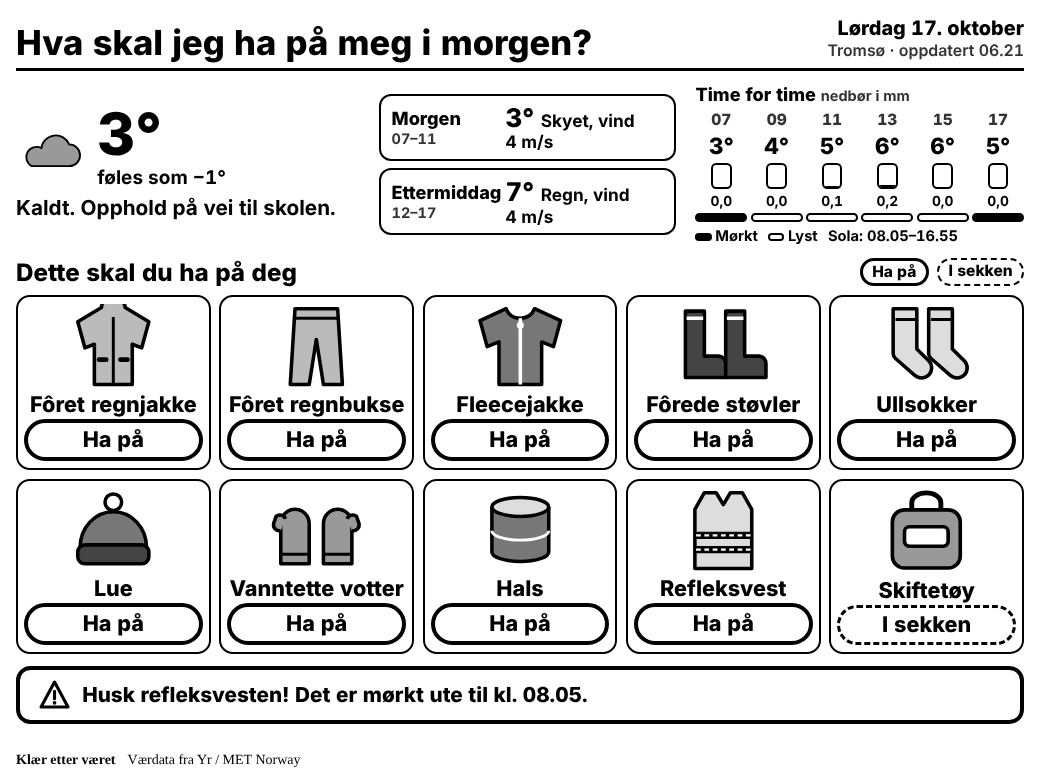
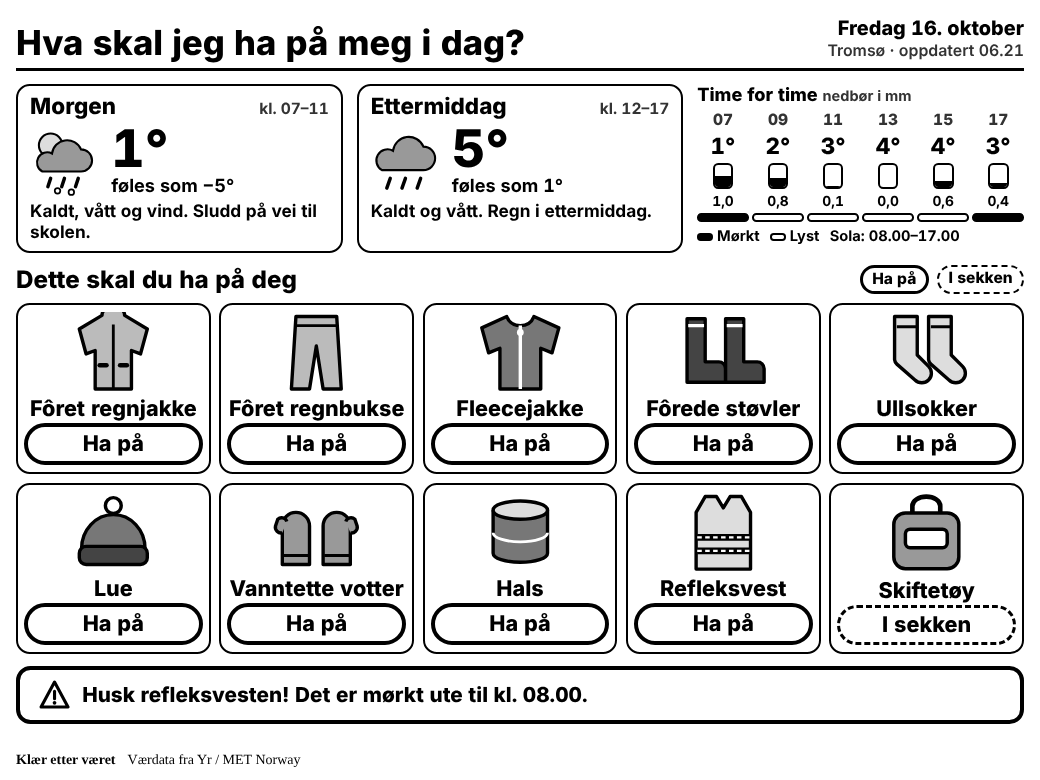
Merge today's weather into the morning and afternoon cards
The separate left element repeated the morning's temperature. Each part
of the day now gets its own card with a weather picture, temperature,
"føles som" and a short sentence.

Claude-Session: https://claude.ai/code/session_01MfSNdDLEZkeMd6mijxF2wM

Changed region(s): [[0.0, 0.0308, 0.9846, 0.7385], [0.9538, 0.2154, 0.9846, 0.2769], [0.8, 0.0308, 0.8308, 0.0615]]

diff --git a/src/transform.js b/src/transform.js
@@ -359,8 +359,16 @@ function build(input, now) {
       text: describe(m, 'på vei til skolen')
     },
     periods: [
-      { label: PERIODS.morning.label, range: PERIODS.morning.range, temp: fmtTemp(m.tMin), text: `${KIND_TEXT[m.kind]}, vind ${fmtWind(m.wind)}`, icon: m.kind },
-      { label: PERIODS.afternoon.label, range: PERIODS.afternoon.range, temp: fmtTemp(a.tMax), text: `${KIND_TEXT[a.kind]}, vind ${fmtWind(a.wind)}`, icon: a.kind }
+      {
+        label: PERIODS.morning.label, range: PERIODS.morning.range, icon: m.kind,
+        temp: fmtTemp(m.tMin), feels: `føles som ${fmtTemp(m.feels)}`, wind: `Vind ${fmtWind(m.wind)}`,
+        text: `${KIND_TEXT[m.kind]}, vind ${fmtWind(m.wind)}`, say: describe(m, 'på vei til skolen')
+      },
+      {
+        label: PERIODS.afternoon.label, range: PERIODS.afternoon.range, icon: a.kind,
+        temp: fmtTemp(a.tMax), feels: `føles som ${fmtTemp(a.feels)}`, wind: `Vind ${fmtWind(a.wind)}`,
+        text: `${KIND_TEXT[a.kind]}, vind ${fmtWind(a.wind)}`, say: describe(a, 'i ettermiddag')
+      }
     ],
     strip,
     sun: sun.text,
